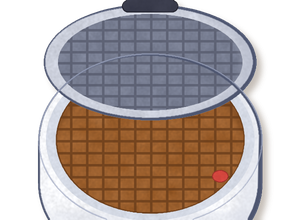
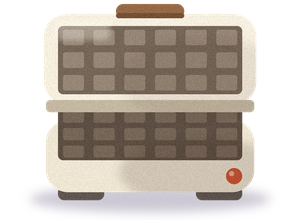
Kitchen waffle machine redrawn front-on in the blender's manner (owner, 23 October: smooth lines, no outline, the perspective fixed): Store/redesign/waffle/waffle_front.py, closed and open on the same 300 x 220 canvas; manual: every chat question gets a Q&A entry at once

diff --git a/Docs/MANUAL.md b/Docs/MANUAL.md
@@ -59,7 +59,7 @@ store page and marketing before more content. Re-read the numbers in November.
    - Images: upload with the Artifact tool (`asset: true`), then Docs `create` a blob from the asset id, then
      `![alt](blob/<id>)` in markdown.
    - Write in short, plain sentences. Chat replies are one or two lines plus the link; substance goes in the report.
-     Direct questions in chat get a short chat answer too, and the answer also goes in Q&A.
+     Every question in chat, even a quick one ("where is it", "did you update the report"), gets its own Q&A entry at once, before the Current work it belongs to (owner, 23 October: "you don't answer me things in q&a section anymore"); a short chat answer too.
 4. **Decide, don't ask**, except for real owner choices (store wording, art direction, anything outward-facing).
 5. **Never type passwords**; the owner signs in to App Store Connect, Unity and Apple themselves.
 6. Commit each working change with a message saying what was broken or added, push to `origin main`, end the
